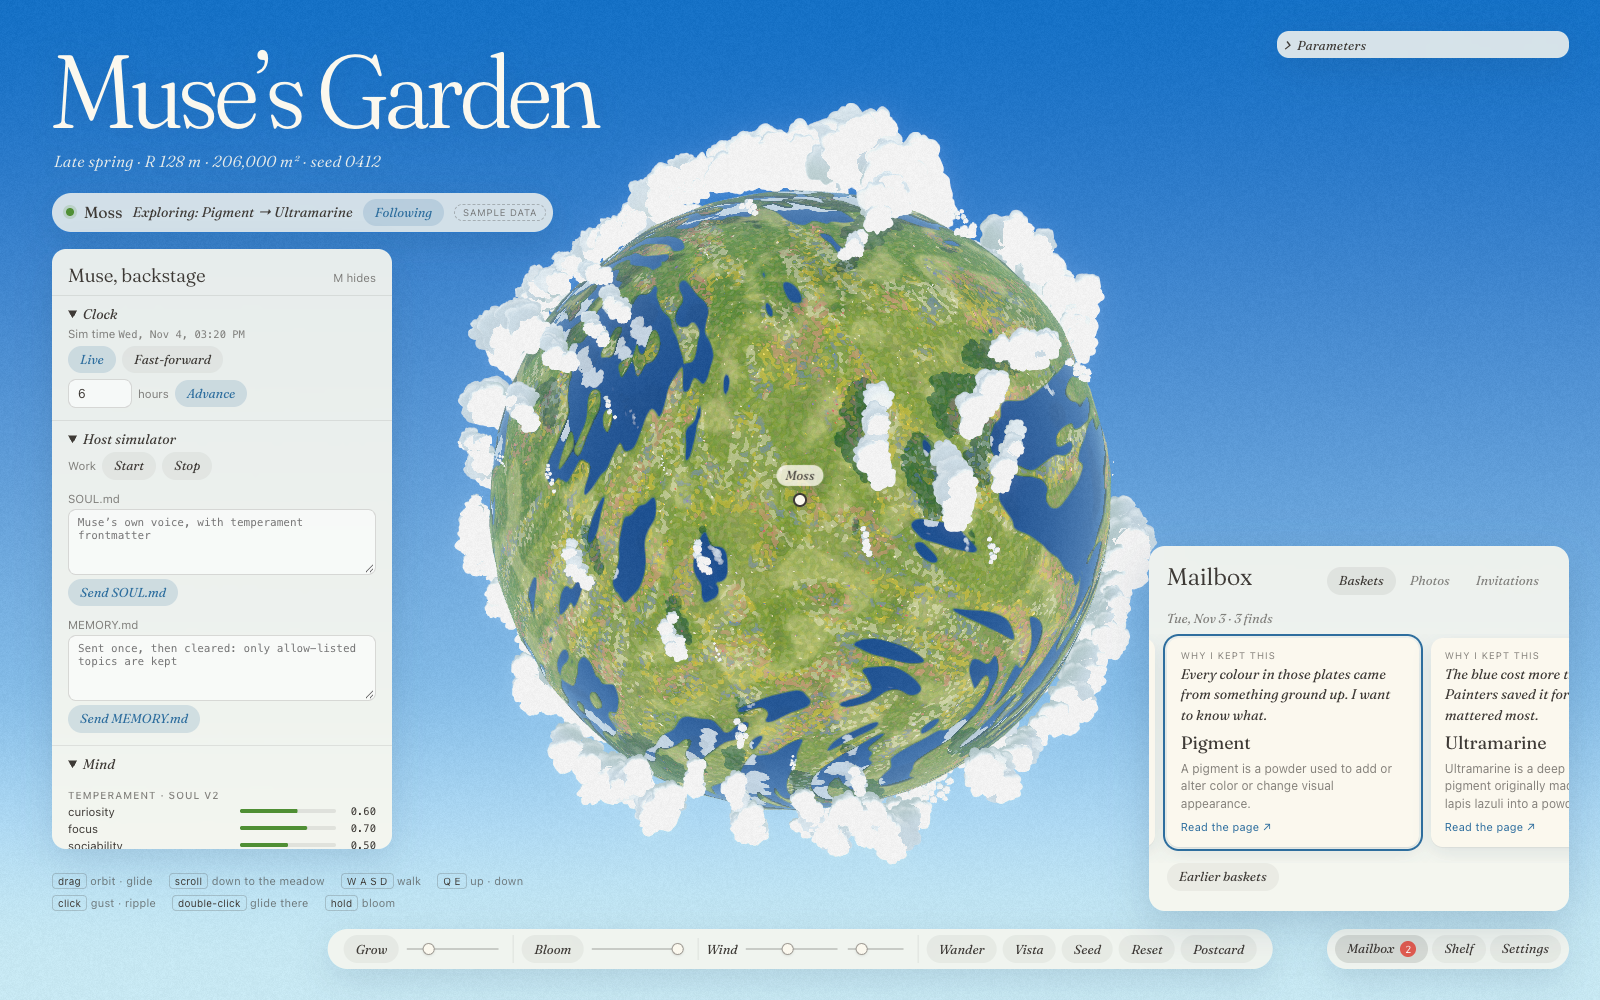
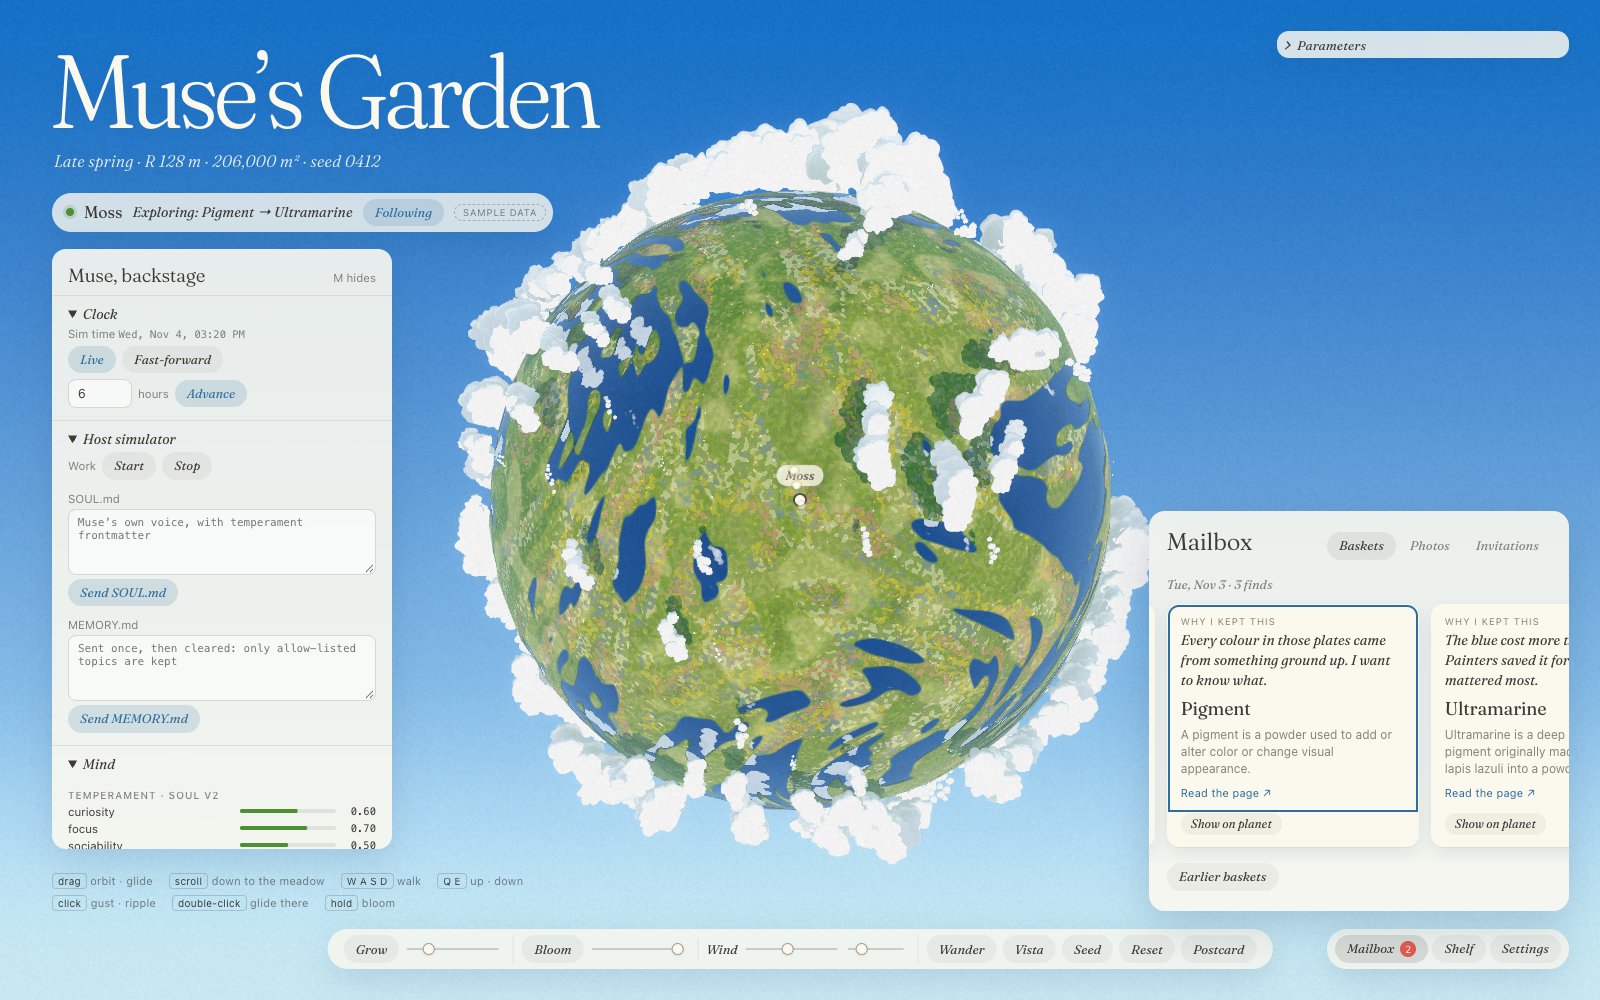
muse(ui): Playwright checks and screenshots for object anchors
Show on planet centres the object and stops Follow; hover and keyboard
focus show the preview; a click opens the card without a single
pointerdown reaching the canvas; Esc returns focus to the glint. The
visit check now covers private finds and hidden Show buttons.
Screenshots renumbered, with 03-object-hover and 04-object-card.

Changed region(s): [[0.7188, 0.496, 1.0, 0.837], [0.3125, 0.093, 0.3438, 0.124], [0.25, 0.093, 0.2812, 0.124]]

diff --git a/src/muse/ui/muse-ui.spec.ts b/src/muse/ui/muse-ui.spec.ts
@@ -15,6 +15,11 @@ async function open(page: Page, url: string): Promise<void> {
 const shot = (page: Page, name: string) => page.screenshot({ path: `${SHOTS}/${name}.png` });
 const shotOf = (target: Locator, name: string) => target.screenshot({ path: `${SHOTS}/${name}.png` });
 const focusedText = (page: Page) => page.evaluate(() => document.activeElement?.textContent ?? '');
+const centreOffset = async (page: Page, target: Locator): Promise<number> => {
+  const box = await target.boundingBox();
+  const vp = page.viewportSize() ?? { width: 0, height: 0 };
+  return box ? Math.hypot(box.x + box.width / 2 - vp.width / 2, box.y + box.height / 2 - vp.height / 2) : Number.POSITIVE_INFINITY;
+};
 
 test('stays out of automated runs without ?muse', async ({ page }) => {
   await open(page, '/#hud=0');
@@ -54,8 +59,8 @@ test('the owner roams, follows, opens the mailbox, shelf and settings, and visit
     await expect(mailbox).toBeVisible();
     await expect(mailbox.locator('.mu-basket')).toHaveCount(1);
     await expect(mailbox.locator('.mu-card')).toHaveCount(3);
-    await expect(mailbox.locator('.mu-card').first()).toHaveAttribute('href', 'https://en.wikipedia.org/wiki/Botanical_illustration');
-    await expect(mailbox.locator('.mu-card').first()).toHaveAttribute('target', '_blank');
+    await expect(mailbox.locator('.mu-card-link').first()).toHaveAttribute('href', 'https://en.wikipedia.org/wiki/Botanical_illustration');
+    await expect(mailbox.locator('.mu-card-link').first()).toHaveAttribute('target', '_blank');
     expect(await focusedText(page)).toContain('Botanical illustration');
     await page.keyboard.press('ArrowRight');
     expect(await focusedText(page)).toContain('Every colour in those plates');
@@ -73,7 +78,61 @@ test('the owner roams, follows, opens the mailbox, shelf and settings, and visit
     expect(await inBasket()).toBe(1);
   });
 
+  const glints = page.locator('.mu-pins button.mu-plant');
+  const pigment = page.locator('.mu-pins button.mu-plant[aria-label="Pigment"]');
+
+  await test.step('every collected object has a glint; Show on planet glides to it and stops Follow', async () => {
+    await expect(glints).toHaveCount(3);
+    await mailbox.getByRole('button', { name: 'Show Pigment on the planet' }).first().click();
+    await expect(status.locator('.mu-follow')).toHaveAttribute('aria-pressed', 'false');
+    await expect(pigment).toHaveClass(/mu-glow/);
+    await page.waitForTimeout(2500);
+    expect(await centreOffset(page, pigment)).toBeLessThan(40);
+  });
+
+  await test.step('hovering or focusing an object previews it; clicking opens its card, never touching the canvas', async () => {
+    await page.keyboard.press('Escape');
+    await expect(mailbox).toBeHidden();
+    const vp = page.viewportSize() ?? { width: 0, height: 0 };
+    await page.mouse.move(vp.width / 2 + 180, vp.height / 2 - 120);
+    await page.mouse.wheel(0, -170);
+    await page.waitForTimeout(2500);
+    await page.evaluate(() => {
+      const w = window as unknown as { __canvasDowns: number };
+      w.__canvasDowns = 0;
+      document.querySelector('#scene')?.addEventListener('pointerdown', () => w.__canvasDowns++);
+    });
+    await pigment.hover();
+    const preview = page.locator('.mu-preview');
+    await expect(preview).toBeVisible();
+    await expect(preview).toContainText('Pigment');
+    await expect(preview).toContainText('Every colour in those plates came from something ground up.');
+    await shot(page, '03-object-hover');
+    await page.mouse.move(vp.width - 40, 120);
+    await expect(preview).toBeHidden();
+    await page.locator('.mu-pins button.mu-plant[aria-label="Ultramarine"]').focus();
+    await expect(preview).toContainText('The blue cost more than gold.');
+
+    await pigment.click();
+    const card = page.locator('.mu-object');
+    await expect(card).toBeVisible();
+    await expect(card.locator('.mu-title')).toHaveText('Pigment');
+    await expect(card).toContainText('A pigment is a powder used to add or alter color');
+    const openLink = card.getByRole('link', { name: 'Open ↗' });
+    await expect(openLink).toHaveAttribute('href', 'https://en.wikipedia.org/wiki/Pigment');
+    await expect(openLink).toHaveAttribute('target', '_blank');
+    expect(await page.evaluate(() => (window as unknown as { __canvasDowns: number }).__canvasDowns)).toBe(0);
+    await shot(page, '04-object-card');
+    await page.keyboard.press('Escape');
+    await expect(card).toBeHidden();
+    await expect(pigment).toBeFocused();
+    await page.mouse.move(vp.width / 2 + 180, vp.height / 2 - 120);
+    await page.mouse.wheel(0, 170);
+    await page.waitForTimeout(1500);
+  });
+
   await test.step('mailbox: photos reopen their exact view as a postcard', async () => {
+    await dock.getByRole('button', { name: /Mailbox/ }).click();
     await mailbox.getByRole('tab', { name: 'Photos' }).click();
     const photos = mailbox.locator('.mu-photo');
     await expect(photos).toHaveCount(1);
@@ -83,7 +142,7 @@ test('the owner roams, follows, opens the mailbox, shelf and settings, and visit
     expect(href).toMatch(/^\/\?muse&dev#seed=2207&g=0\.3&pose=-?[\d.]+,-?[\d.]+,-?[\d.]+,-?[\d.]+,0\.8&pc=1$/);
     await mailbox.getByRole('button', { name: 'Earlier photos' }).click();
     await expect(photos).toHaveCount(2);
-    await shot(page, '03-mailbox-photos');
+    await shot(page, '05-mailbox-photos');
   });
 
   await test.step('mailbox: invitations answer per their actions, no Visit before the window', async () => {
@@ -96,7 +155,7 @@ test('the owner roams, follows, opens the mailbox, shelf and settings, and visit
     await expect(wren.getByRole('button')).toHaveText(['Accept', 'Decline']);
     await expect(juniper.getByRole('button')).toHaveText(['Approve', 'Decline']);
     await expect(mailbox.getByRole('button', { name: 'Visit' })).toHaveCount(0);
-    await shot(page, '04-mailbox-invitations');
+    await shot(page, '06-mailbox-invitations');
     await wren.getByRole('button', { name: 'Accept' }).click();
     await expect(wren).toContainText('Accepted. Come by during the window if you like.');
     await expect(dock.locator('.mu-badge')).toHaveText('1');
@@ -109,7 +168,7 @@ test('the owner roams, follows, opens the mailbox, shelf and settings, and visit
     const shelf = page.locator('.mu-shelf');
     await expect(shelf.locator('.mu-shelf-item')).toHaveCount(3);
     await expect(shelf.locator('.mu-shelf-item .mu-title')).toHaveText(['Botanical illustration', 'Pigment', 'Ultramarine']);
-    await shot(page, '05-shelf');
+    await shot(page, '07-shelf');
     await page.keyboard.press('Escape');
     await expect(shelf).toBeHidden();
     await expect(dock.getByRole('button', { name: 'Shelf' })).toBeFocused();
@@ -125,12 +184,12 @@ test('the owner roams, follows, opens the mailbox, shelf and settings, and visit
     await expect(settings.getByRole('button', { name: 'Share Tide' })).toBeFocused();
     await expect(settings.locator('.mu-code')).toHaveText('MOSS-7Q2K');
     await expect(settings.getByLabel('Whenever it’s ready')).toBeChecked();
-    await shot(page, '06-settings');
+    await shot(page, '08-settings');
     await page.keyboard.press('Escape');
   });
 
   await test.step('dev: the mind inspector, and MEMORY.md never stays in the page', async () => {
-    await shotOf(dev, '07-dev-mind');
+    await shotOf(dev, '09-dev-mind');
     const memory = dev.getByLabel('MEMORY.md');
     await memory.fill('I love jazz standards and pressed flowers.');
     await dev.getByRole('button', { name: 'Send MEMORY.md' }).click();
@@ -154,24 +213,31 @@ test('the owner roams, follows, opens the mailbox, shelf and settings, and visit
     await expect(banner).toContainText('min left');
     await expect(status).toBeHidden();
     await expect.poll(() => page.evaluate(() => location.hash)).toContain('seed=2207');
-    await expect(page.locator('button.mu-plant')).toHaveCount(1);
-    await expect(page.locator('.mu-plant.mu-private')).toHaveCount(1);
+    await expect(glints).toHaveCount(1);
+    const privateFind = page.locator('.mu-plant.mu-private');
+    await expect(privateFind).toHaveCount(1);
+    await expect(privateFind).not.toHaveAttribute('tabindex');
     await page.waitForTimeout(3000);
-    const leaf = page.locator('button.mu-plant');
-    await expect(leaf).not.toHaveClass(/mu-off/);
-    const box = await leaf.boundingBox();
-    const vp = page.viewportSize() ?? { width: 0, height: 0 };
-    expect(Math.hypot((box?.x ?? 0) + (box?.width ?? 0) / 2 - vp.width / 2, (box?.y ?? 0) + (box?.height ?? 0) / 2 - vp.height / 2)).toBeLessThan(40);
-    await page.locator('button.mu-plant').click();
-    await expect(page.locator('.mu-visit-card')).toContainText('Lichen');
-    await shot(page, '08-visit');
+    await expect(glints).not.toHaveClass(/mu-off/);
+    expect(await centreOffset(page, glints)).toBeLessThan(40);
+    await dock.getByRole('button', { name: /Mailbox/ }).click();
+    await mailbox.getByRole('tab', { name: 'Baskets' }).click();
+    await expect(mailbox.locator('.mu-basket .mu-card')).toHaveCount(3);
+    await expect(mailbox.locator('.mu-show').first()).toBeHidden();
+    await glints.click();
+    await expect(mailbox).toBeHidden();
+    await expect(page.locator('.mu-object')).toContainText('Lichen');
+    await expect(page.locator('.mu-object')).toContainText('Two living things sharing one body.');
+    await shot(page, '10-visit');
 
     await hours.fill('2');
     await dev.getByRole('button', { name: 'Advance' }).click();
     await expect(banner).toBeHidden();
     await expect(page.locator('.mu-toast')).toContainText('The window closed');
     await expect.poll(() => page.evaluate(() => location.hash)).not.toContain('seed=2207');
-    await expect(page.locator('.mu-plant')).toHaveCount(0);
+    await expect(page.locator('.mu-object')).toBeHidden();
+    await expect(page.locator('.mu-plant.mu-private')).toHaveCount(0);
+    await expect(glints).toHaveCount(3);
     await expect(status).toBeVisible();
   });
 });
@@ -190,7 +256,7 @@ test('Follow waits, with a reason, while Muse is beyond the planet', async ({ pa
   await expect(status.locator('.mu-reason')).toHaveText('Follow is back when Moss returns.');
   await expect(page.locator('.mu-muse')).toHaveClass(/mu-off/);
   await expect(status.locator('.mu-tag')).toBeHidden();
-  await shot(page, '09-beyond');
+  await shot(page, '11-beyond');
 });
 
 test('fits a phone', async ({ browser }) => {
@@ -208,6 +274,6 @@ test('fits a phone', async ({ browser }) => {
       .map(({ cls, r }) => `${cls}: ${Math.round(r.left)}..${Math.round(r.right)}`),
   );
   expect(outside).toEqual([]);
-  await shot(page, '10-phone-mailbox');
+  await shot(page, '12-phone-mailbox');
   await context.close();
 });
